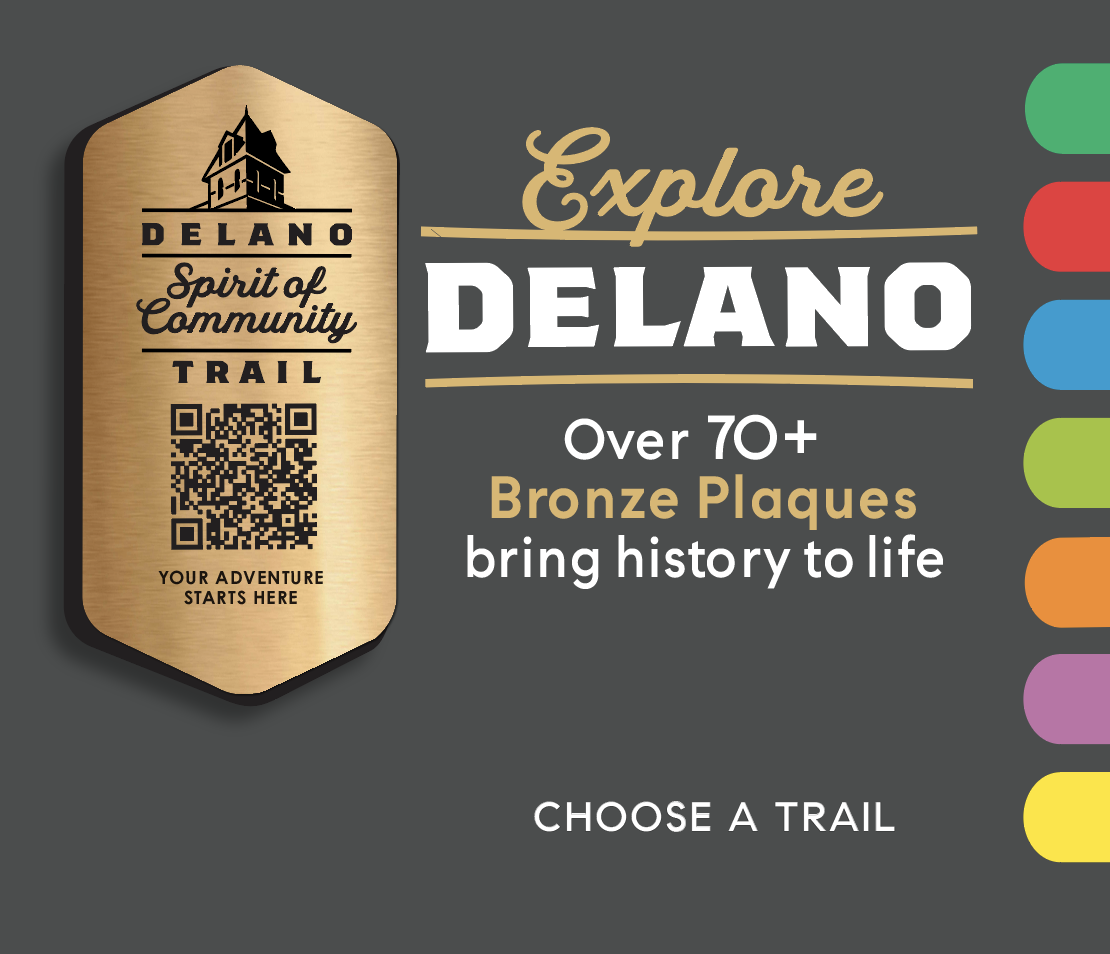
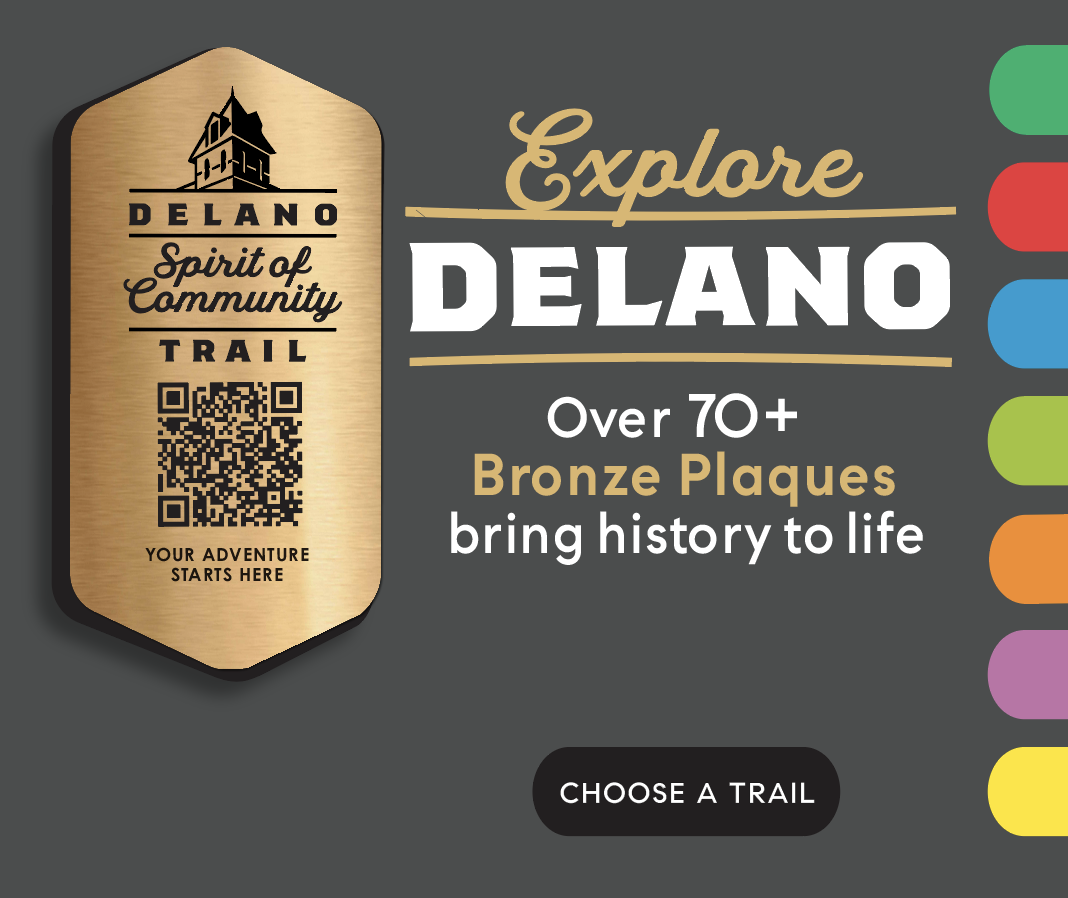
Swap in the tweaked Explore Delano header; its Choose a trail button scrolls to the trail list

diff --git a/src/Panels.tsx b/src/Panels.tsx
@@ -44,17 +44,20 @@ export function HomePanel({ trails, stops, go, onReplay }: { trails: Trail[]; st
     <div className="view home">
       <header className="masthead">
         <h1>
-          <img className="banner" src="./delano-trail-home.png" width={1110} height={954}
+          <img className="banner" src="./delano-trail-home.png" width={1068} height={898}
             alt="Explore Delano. Over 70 bronze plaques bring history to life. Choose a trail: Green, Red, Blue, Lime Green, Orange, Purple, Yellow." />
         </h1>
         {/* The seven colour tabs down the right edge of the artwork each open their trail. */}
         {HOME_CIRCLES.map((id, i) => {
           const t = trails.find((x) => x.id === id)
           return t && (
-            <button key={id} className="home-dot" style={{ top: `${((108 + i * 118 - 59) / 954) * 100}%` }}
+            <button key={id} className="home-dot" style={{ top: `${((88 + i * 117.3 - 58.6) / 898) * 100}%` }}
               onClick={() => go({ view: 'trail', trail: t.id })} aria-label={t.name} title={t.name} />
           )
         })}
+        {/* The "Choose a trail" button in the artwork brings the list of trails into view. */}
+        <button className="home-choose" aria-label="Choose a trail"
+          onClick={(e) => e.currentTarget.closest('.home')?.querySelector('.trail-cards')?.scrollIntoView({ behavior: 'smooth', block: 'start' })} />
       </header>
 
       <ul className="trail-cards">

diff --git a/src/styles.css b/src/styles.css
@@ -130,7 +130,9 @@ h1, h2 { font-family: var(--serif); font-weight: 600; line-height: 1.1; margin: 
 /* The gold trail banner runs edge to edge across the top of the home panel. */
 .masthead { position: relative; margin: 0 calc(var(--gutter) * -1); }
 .masthead h1 { margin: 0; }
-.home-dot { position: absolute; right: 0; width: 13%; height: 12.37%; padding: 0; border: 0; border-radius: 999px 0 0 999px; background: none; cursor: pointer; }
+.home-dot { position: absolute; right: 0; width: 13%; height: 13.06%; padding: 0; border: 0; border-radius: 999px 0 0 999px; background: none; cursor: pointer; }
+.home-choose { position: absolute; left: 49.4%; top: 82.6%; width: 29.8%; height: 11.2%; padding: 0; border: 0; border-radius: 999px; background: none; cursor: pointer; }
+.home-choose:hover, .home-choose:active { background: rgb(255 255 255 / 0.15); }
 .home-dot:hover, .home-dot:active { background: rgb(255 255 255 / 0.25); }
 .banner { display: block; width: 100%; height: auto; }
 .lede { margin: 26px 0 0; padding-top: 20px; border-top: 1.5px solid var(--rule); font-size: 17px; color: var(--ink-soft); }
